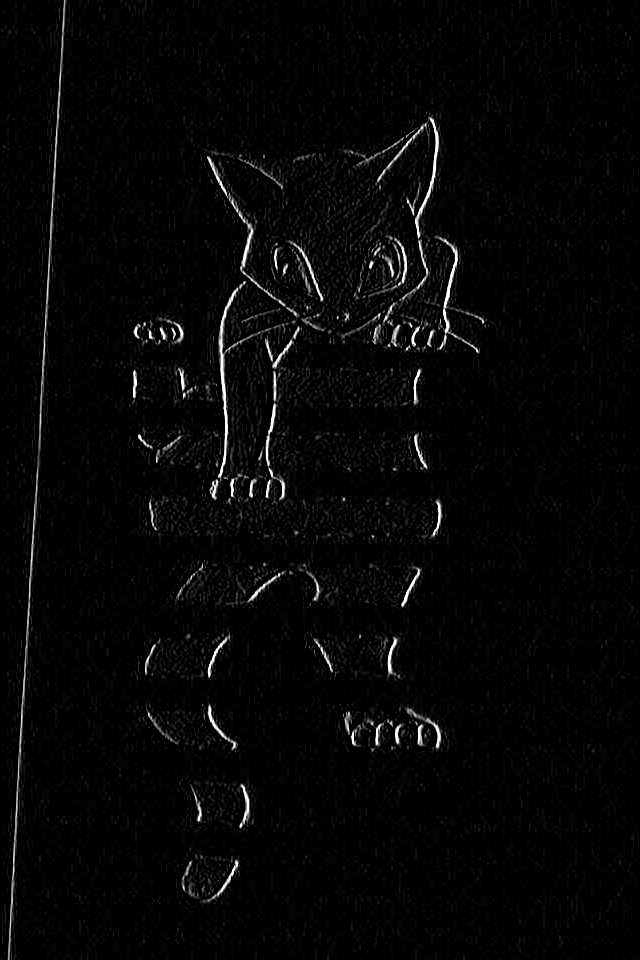
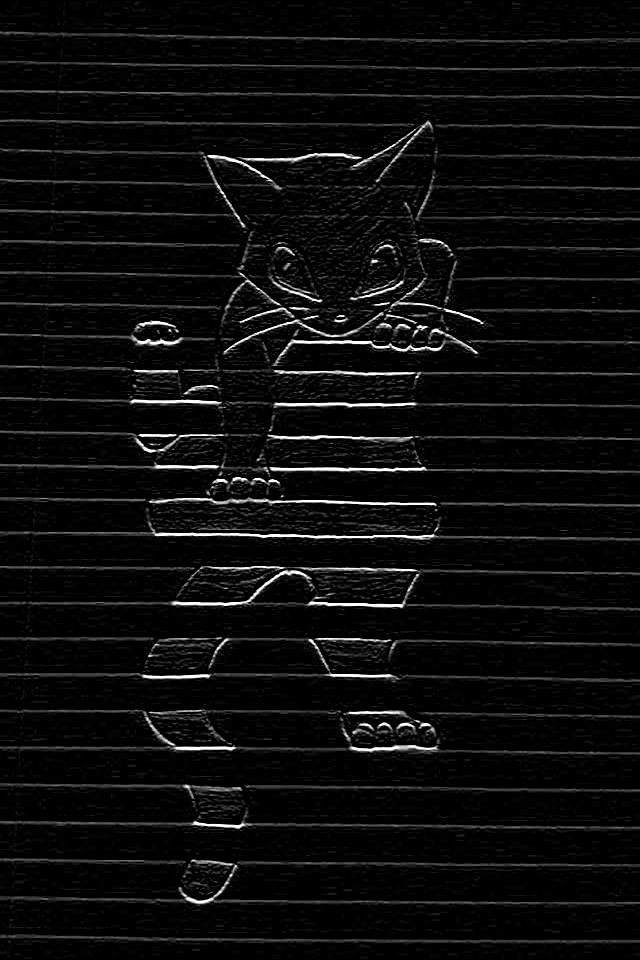
doing fft

diff --git a/class7/classwork4/laplaciantAndSobel.py b/class7/classwork4/laplaciantAndSobel.py
@@ -24,8 +24,14 @@ image = cv.imread('class7/img/catonnote.jpg', cv.IMREAD_GRAYSCALE)
 # ใช้ Sobel Filter แบบ Horizontal และ Vertical กับภาพ
 filtered_horizontal, filtered_vertical = sobel_filter(image)
 
+# ทำ Fourier Transform
+fft_image = np.fft.fft2(image)
+# fft_shifted = np.fft.fftshift(fft_image)
+
 # แสดงผลลัพธ์
-cv.imwrite('class7/classwork4/sobelx.png', filtered_horizontal)
-cv.imwrite('class7/classwork4/sobely.png',filtered_vertical)
+cv.imwrite('class7/classwork4/sobelx.png', filtered_vertical)
+cv.imwrite('class7/classwork4/sobely.png',filtered_horizontal)
+cv.imwrite('class7/classwork4/fft2.png',image)
+# cv.imwrite('class7/classwork4/fftshift.png',fft_shifted)
 cv.waitKey(0)
 cv.destroyAllWindows()
